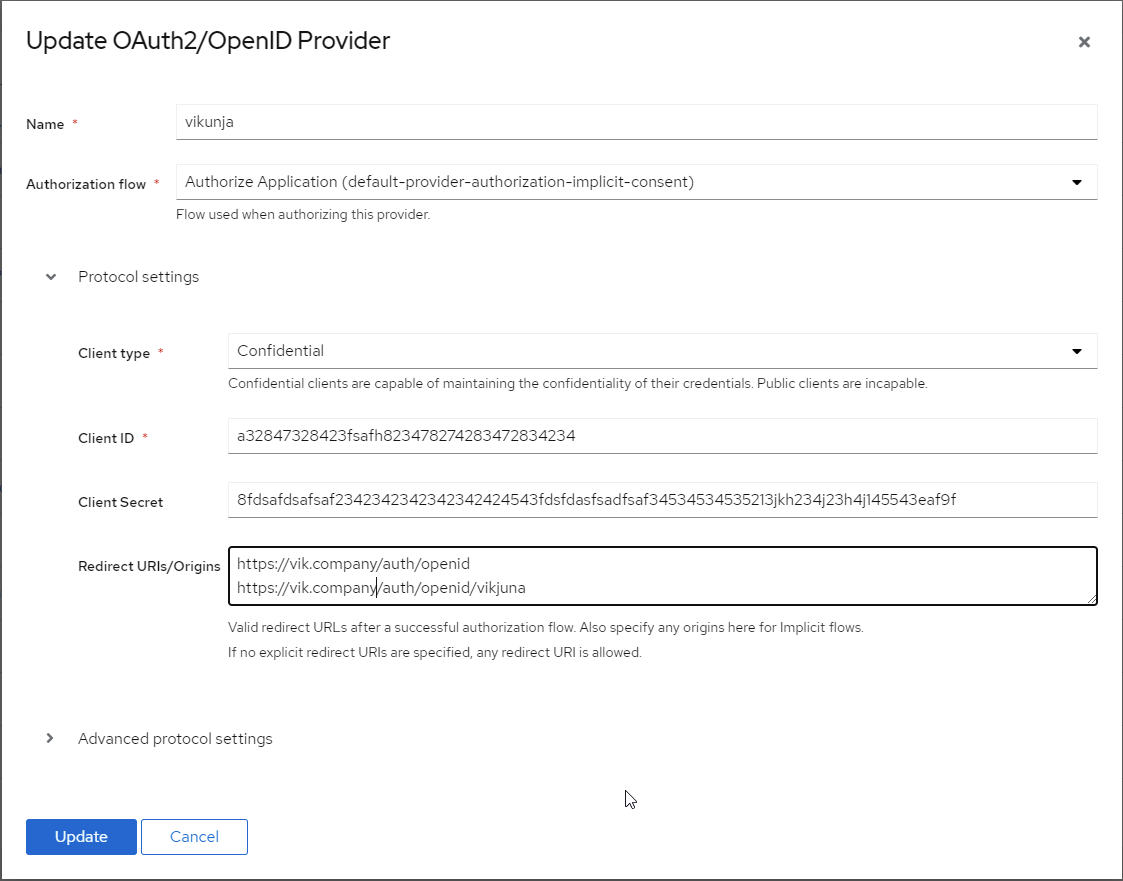
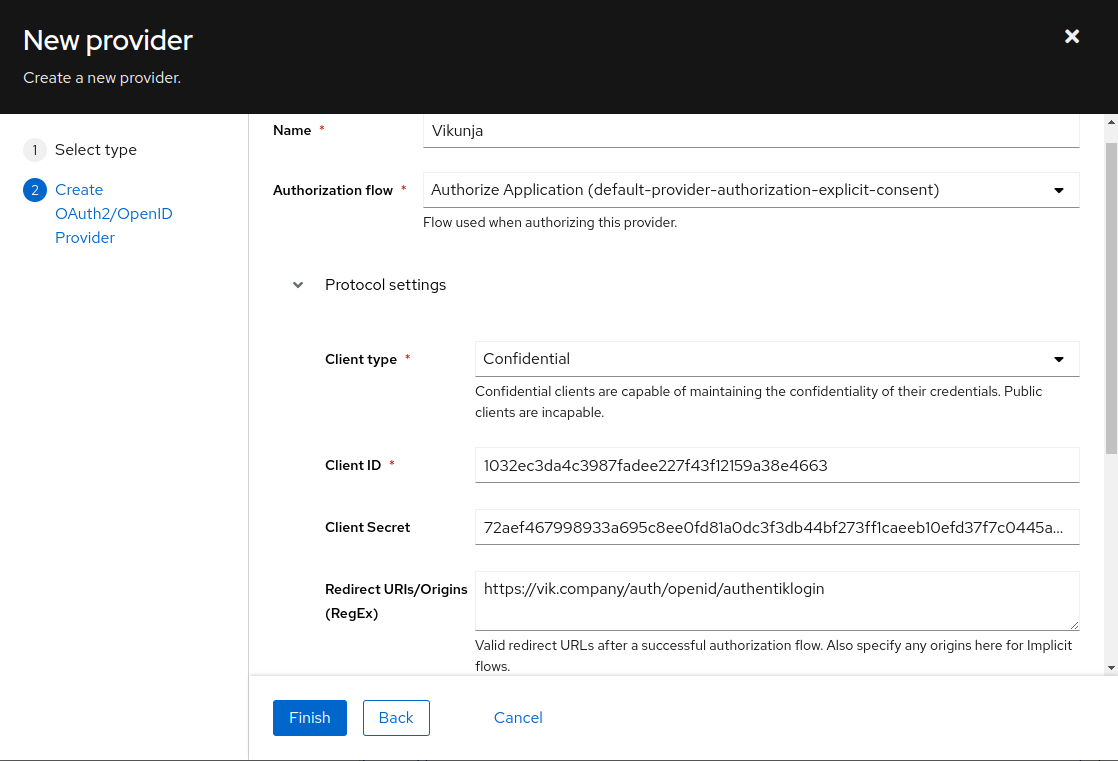
website/integrations: improve Vikunja docs (#3370)
* website/docs: improve Vikunja docs

- Added placeholder for name set in config.yml with example using uppercase letters and spaces, to show how the callback URL will be handled with said name
- Added note that local login can be disabled
- Reword restart note at bottom to sound more fluent

* website/docs: update Vikunja provider screenshot

* minor fixes

diff --git a/website/integrations/services/vikunja/index.md b/website/integrations/services/vikunja/index.md
@@ -22,6 +22,7 @@ The following placeholders will be used:
 
 -   `vik.company` is the FQDN of Vikunja.
 -   `authentik.company` is the FQDN of authentik.
+-   `authentik Login` is the name shown on Vikunja set in config.yml, and used for the Redirect URI. If the name set in config.yml has capitalization or spaces like in this example, they will be set to lowercase and no spaces in the callback URL, like `authentiklogin`.
 
 ### Step 1
 
@@ -39,16 +40,16 @@ Only settings that have been modified from default have been listed.
 -   Redirect URIs/Origins:
 
 ```
-https://vik.company/auth/openid/authentik
+https://vik.company/auth/openid/authentiklogin
 ```
 
 ![](./vikunja1.png)
 
 ### Step 2
 
-Edit/Create you `config.yml` file for Vikunja
+Edit/Create your `config.yml` file for Vikunja. Local authentication can be safely disabled in the Local block if all users must login through authentik, in this example it is left enabled.
 
-Incorporate the following example Auth block into your `config.yml`
+Incorporate the following example Auth block into your `config.yml`:
 
 ```bash
 auth:
@@ -71,7 +72,7 @@ auth:
     # A list of enabled providers
     providers:
       # The name of the provider as it will appear in the frontend.
-      - name: authentik
+      - name: "authentik Login"
         # The auth url to send users to if they want to authenticate using OpenID Connect.
         authurl: https://authentik.company/application/o/vikunja/
         # The client ID used to authenticate Vikunja at the OpenID Connect provider.
@@ -96,5 +97,5 @@ In authentik, create an application which uses this provider. Optionally apply a
 ## Notes
 
 :::note
-Recommend you restart the Vikunja stack after making the config file changes.
+It is recommended to restart all Vikunja components (API and frontend) after applying the OpenID configuration to Vikunja.
 :::
